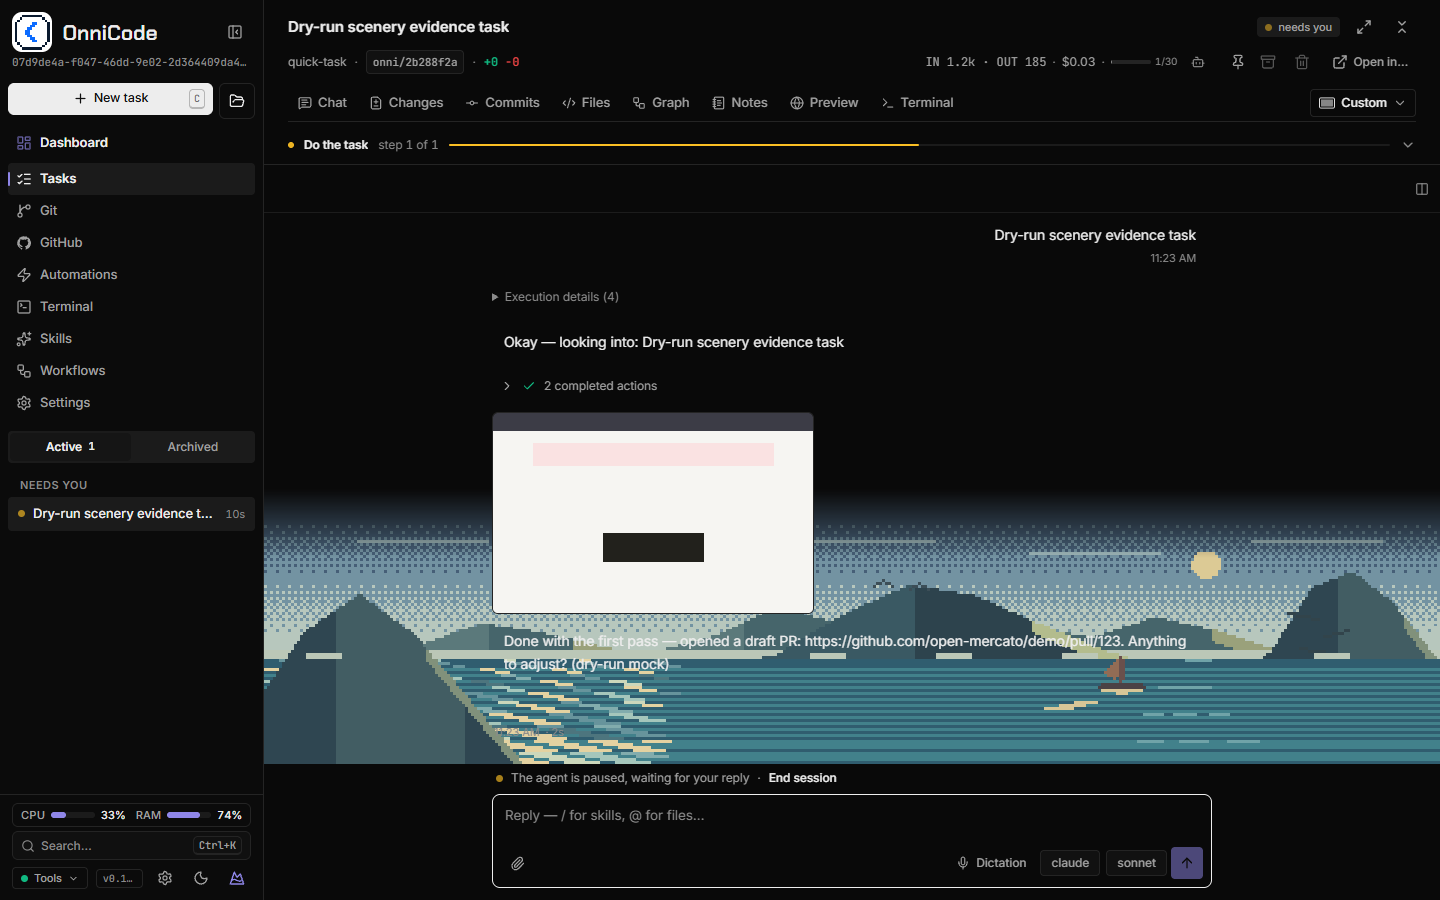
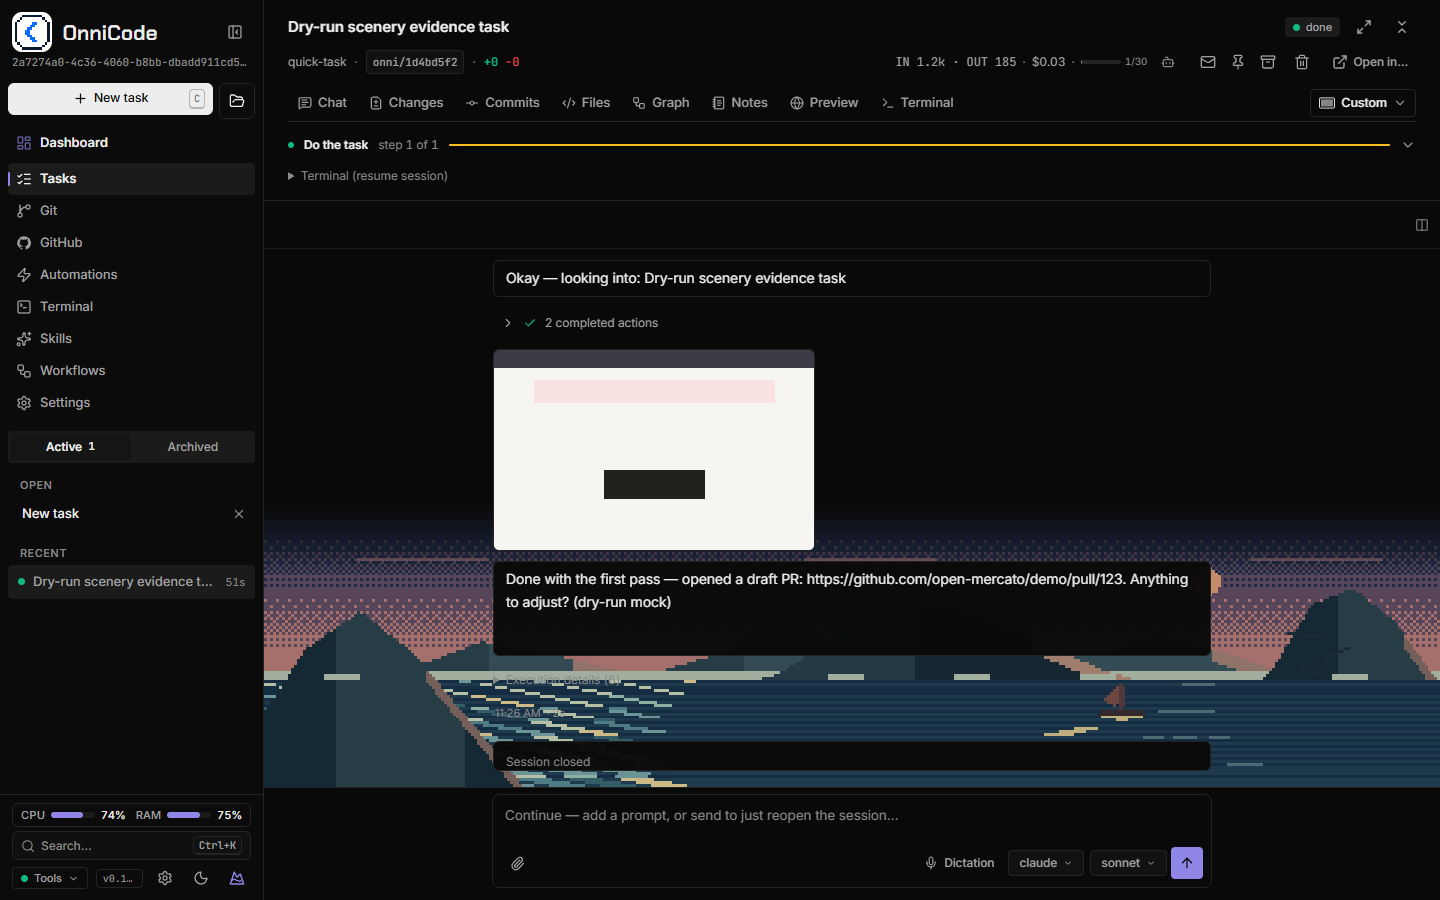
docs(pixel-scenes): add after-fix captures and notes

diff --git a/docs/design/pixel-scenes/evidence/v2/ui-after/CAPTURE.md b/docs/design/pixel-scenes/evidence/v2/ui-after/CAPTURE.md
@@ -1,0 +1,20 @@
+# After-fix capture (2026-11-22)
+
+Captured by the manager from a production web build of this branch (`npm run build -w @onni/web`),
+`ONNI_DRY_RUN=1`, port 4377, `agent-browser` from `~/.cache/agent-tools/agent-browser`, DPR 1.
+Scene selected via `PUT /api/v1/workspace/ui-state`, theme via `localStorage['onni-theme']`.
+
+Files: `<scene>-<light|dark>-<new|chat>.png` (1440×900, 32), `<scene>-<theme>-new-narrow.png`
+(390×844: vn-halong, world-sahara, world-tromso, 6), earlier `background-scenes-popover-light.png`.
+
+## What the shots show
+- `/new`: the reading panel is now opaque (root cause: `--scene-panel-*` were scoped to the backdrop,
+  so sibling panels rendered transparent). Text is legible; the scene shows in the gutters.
+- Chat: Horizon strip is visible above the dock; message surfaces are protected. Small metadata
+  lines (timestamp, "Execution details") still sit unprotected on the strip.
+- `/scenery-thumbs/<id>-<theme>.png` is served (HTTP 200).
+
+## Known defects (not fixed)
+- `vn-fansipan` is still the weakest scene: the cloud sea is a large flat mass with little volume.
+- Reviewer scores in `../scoring.md` pre-date these fixes; they are not the product owner's sign-off.
+- Narrow shots and the full matrix were not re-scored after the fixes.
